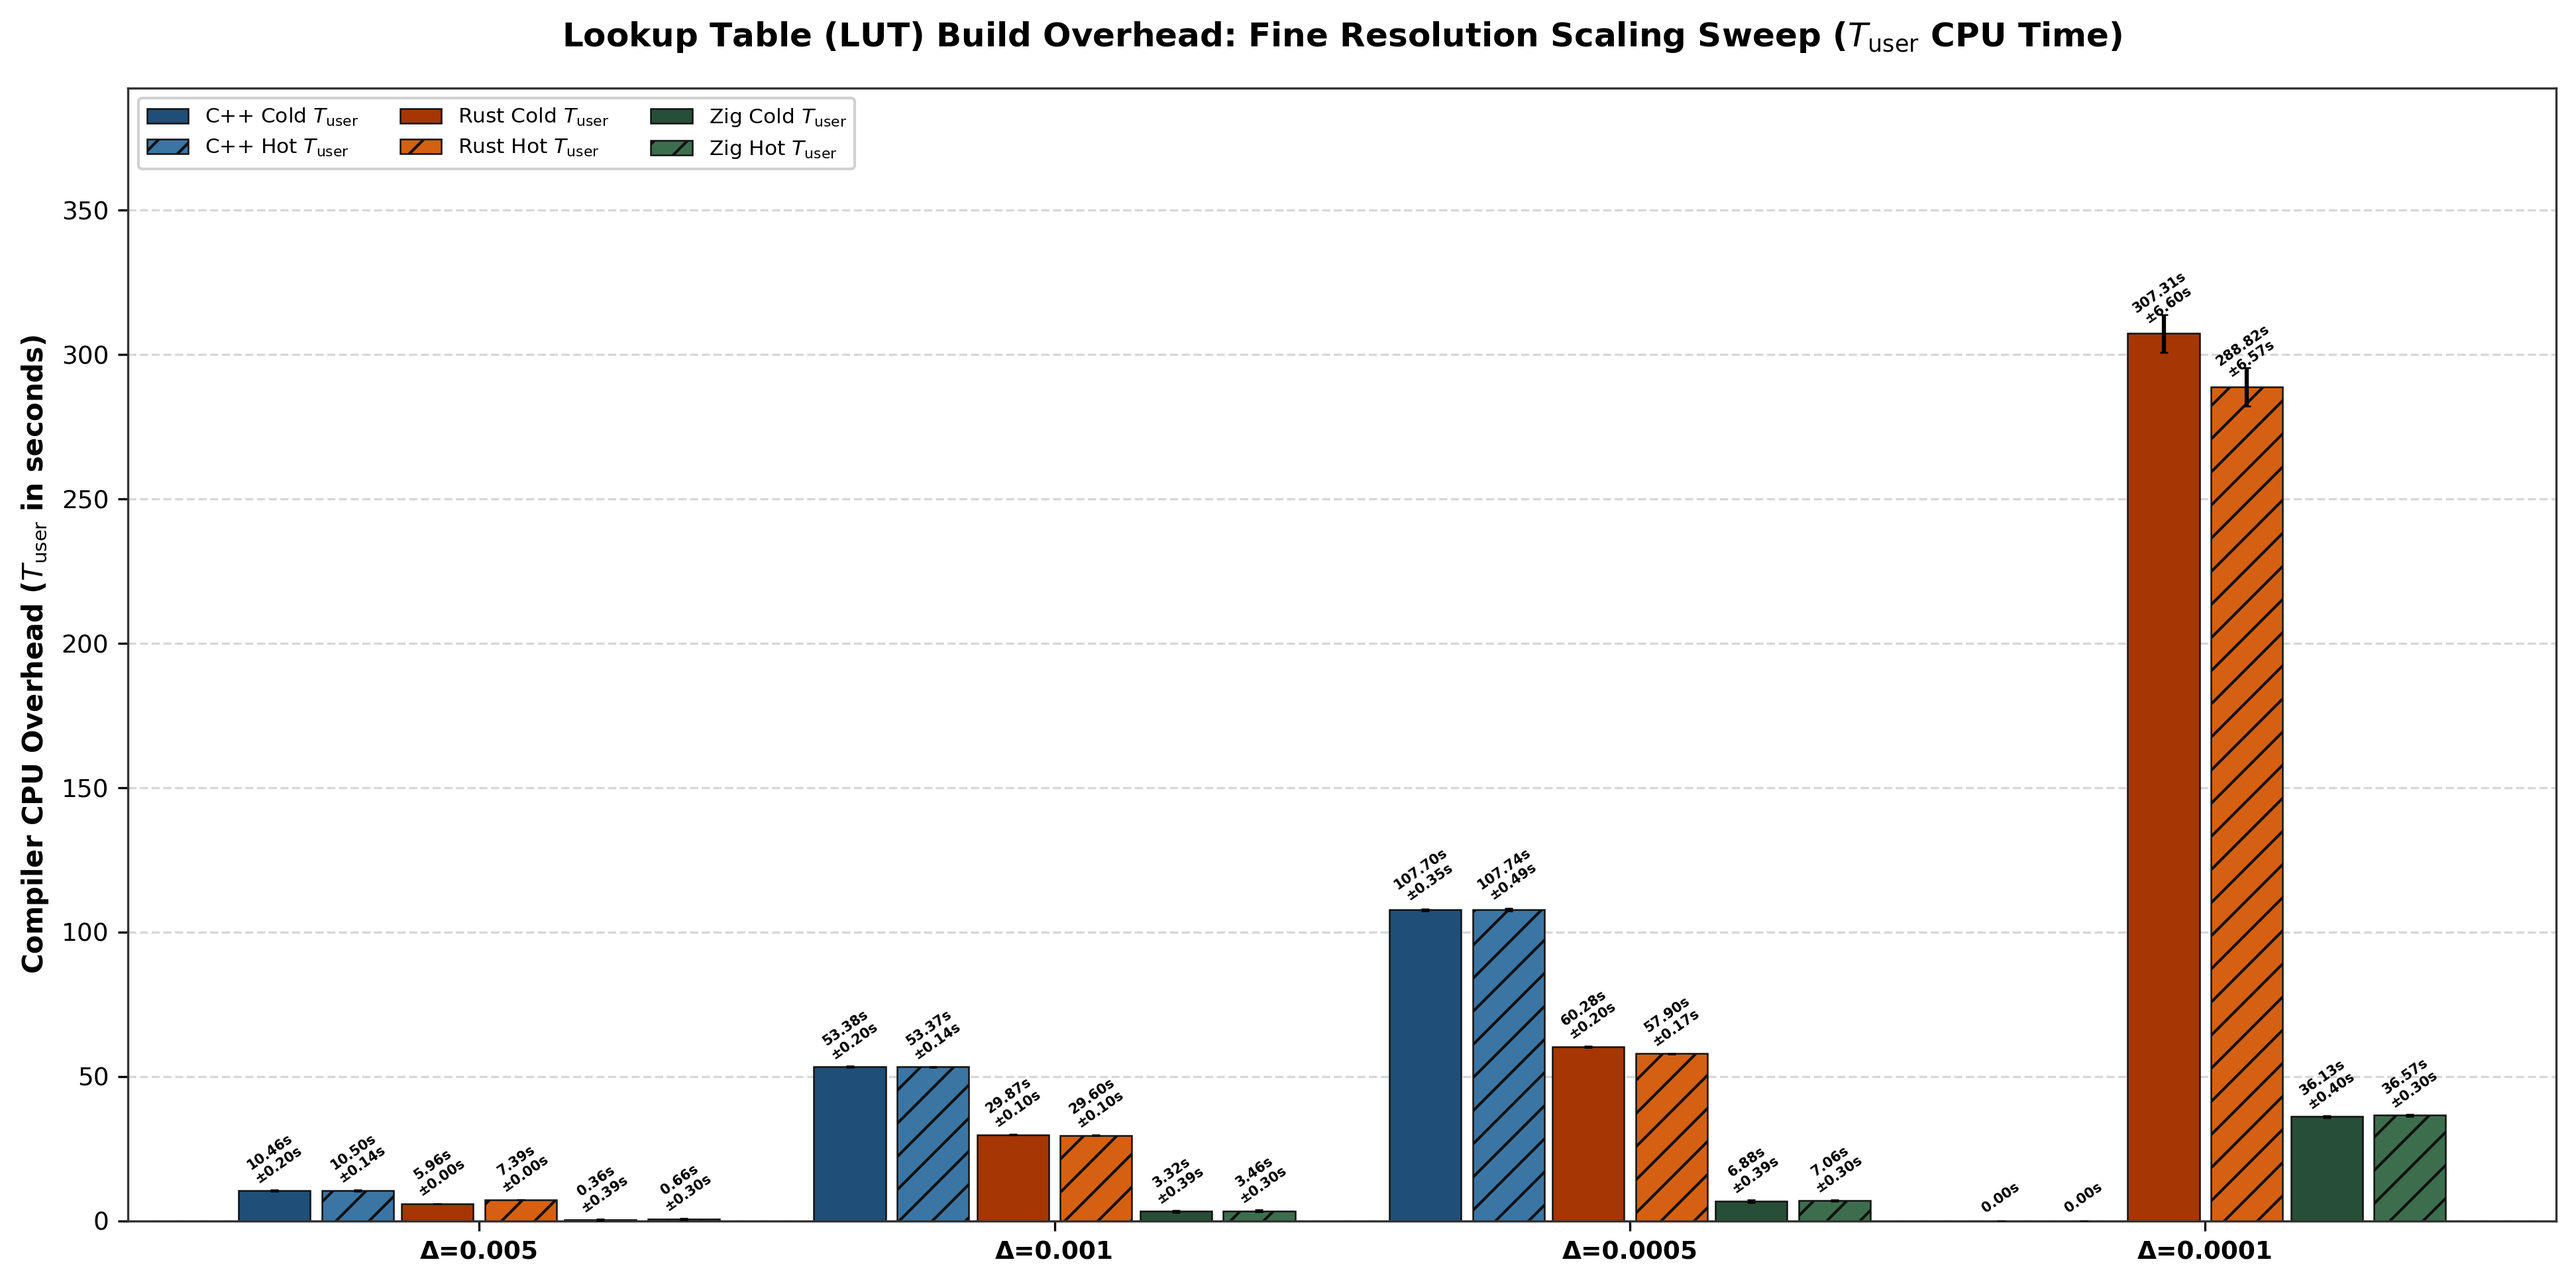
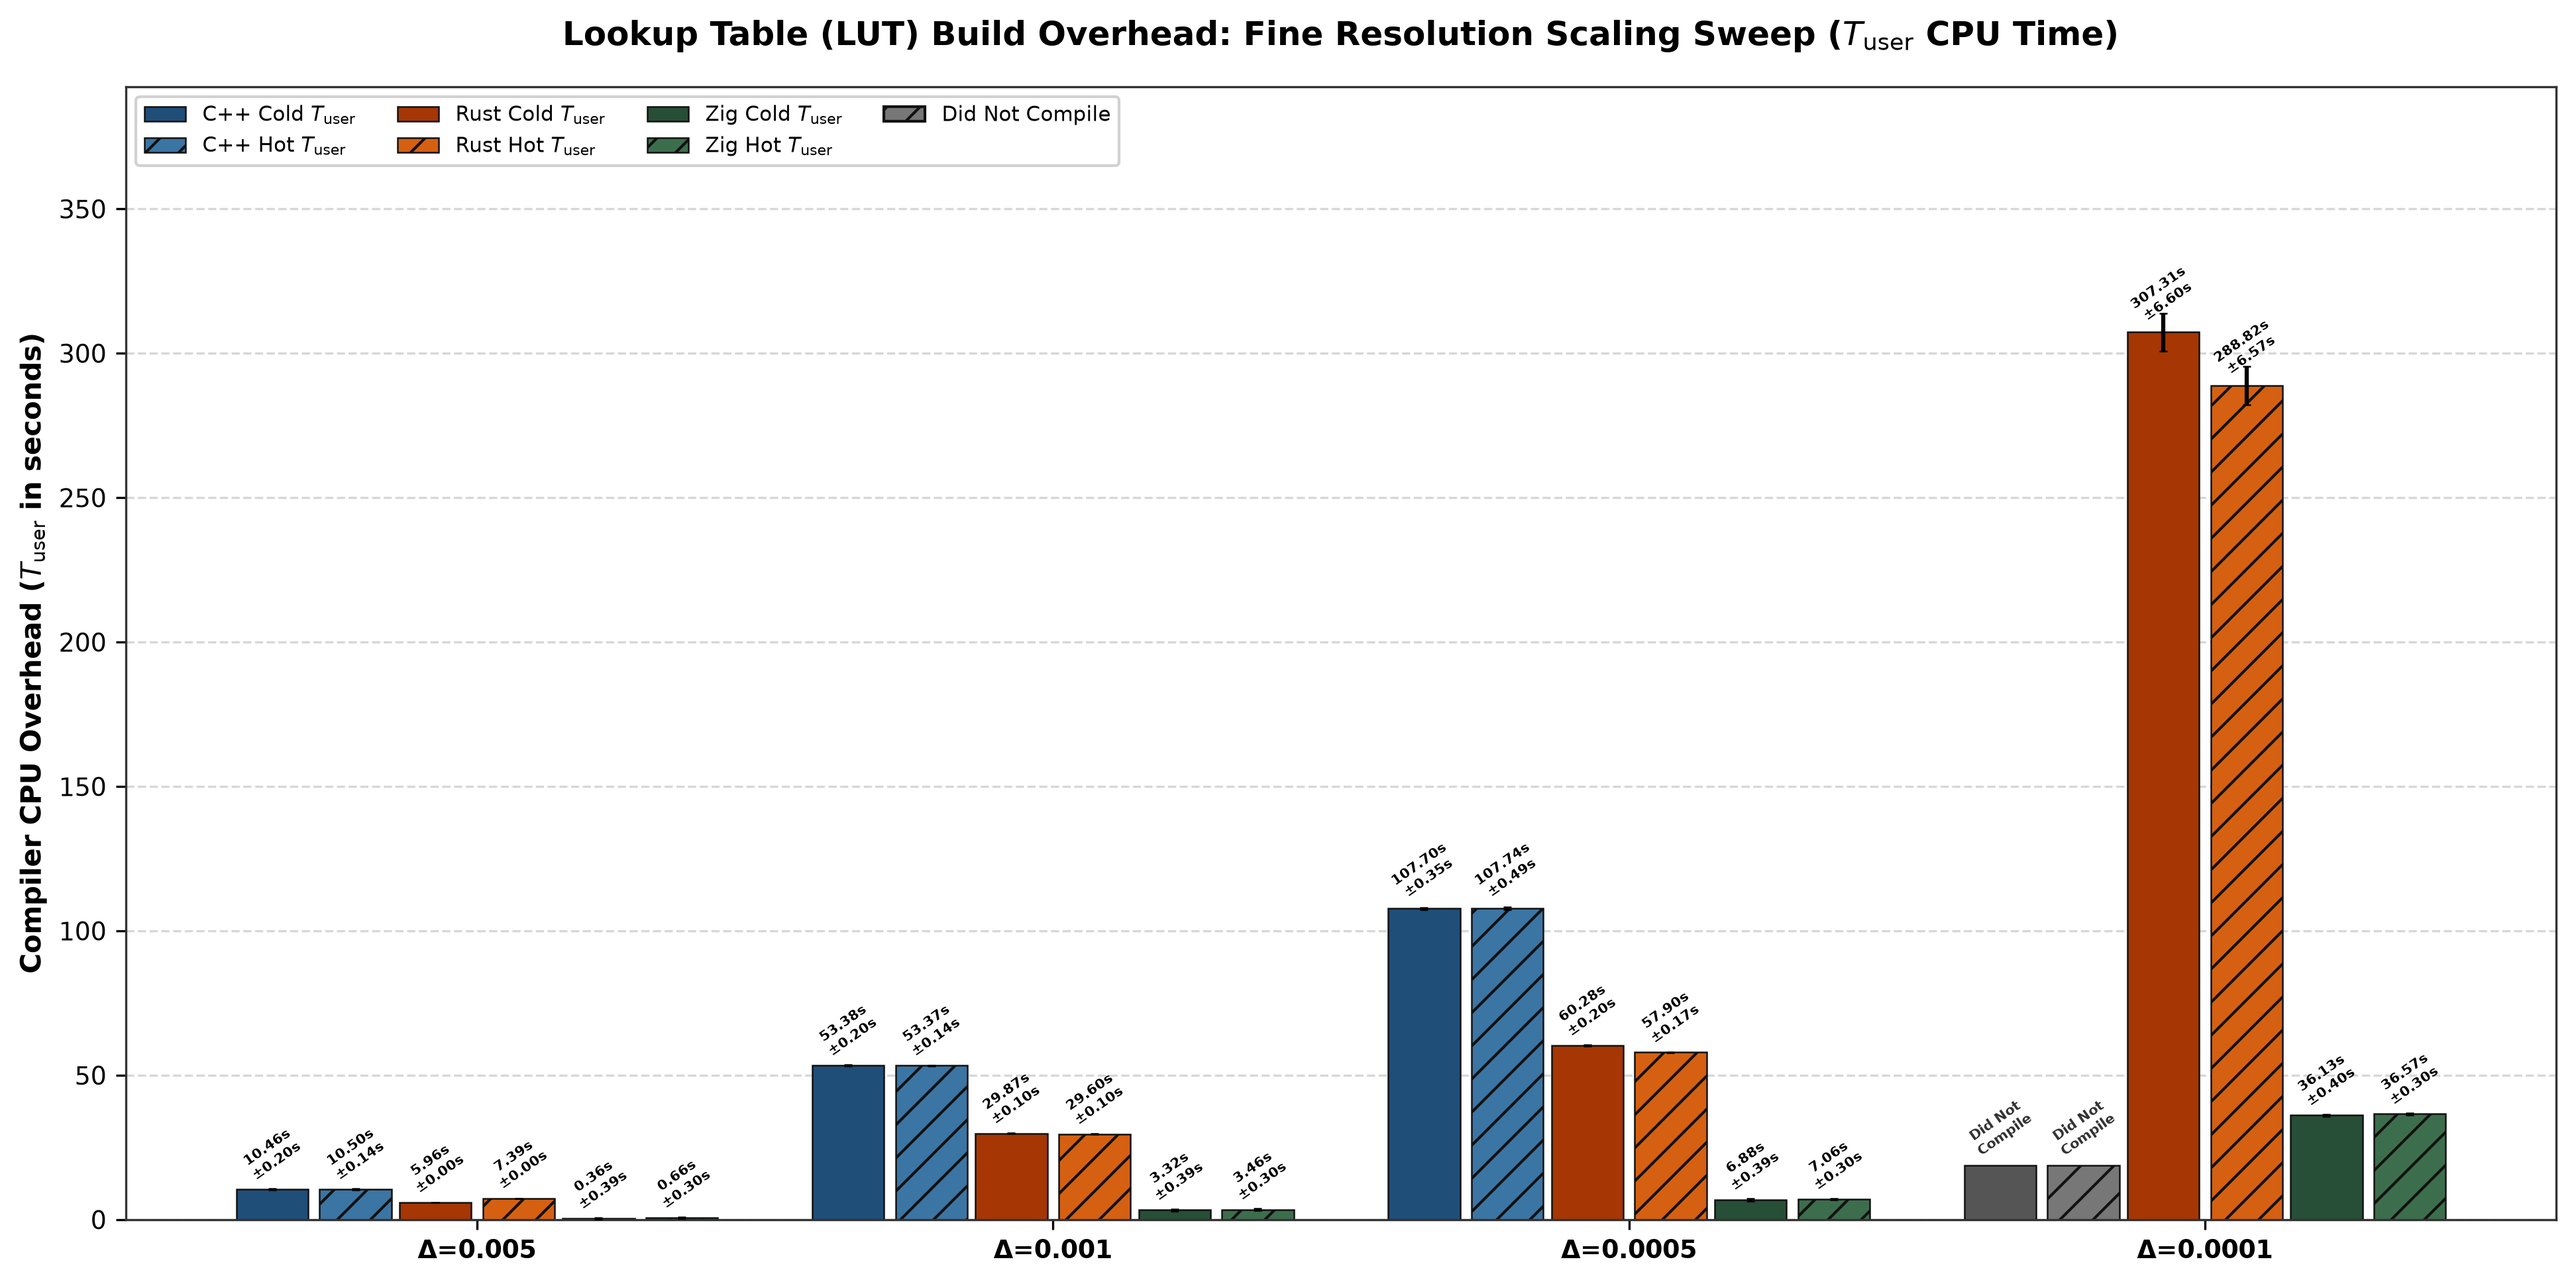
lut build

diff --git a/plot/plot_lut_build_times.py b/plot/plot_lut_build_times.py
@@ -1,6 +1,7 @@
 from pathlib import Path
 import re
 import matplotlib.pyplot as plt
+import matplotlib.patches as mpatches
 import numpy as np
 import pandas as pd
 
@@ -71,6 +72,7 @@ def plot_tuser_paired_textured_sweep(
     Plots T_user CPU overhead for Cold (solid) and Hot (hatched) builds.
     Calculates delta relative to build_offset T_user and propagates std dev:
         std_diff = sqrt(var_exp + var_base)
+    Non-compiling / missing entries (e.g. C++ at INC_0.0001) are rendered as grey bars.
     """
     df_base = df[df["label"] == "build_offset"].set_index("lang")
     df_lut_rt = df[df["label"] == "lut_runtime"].set_index("lang")
@@ -95,117 +97,159 @@ def plot_tuser_paired_textured_sweep(
 
     fig, ax = plt.subplots(figsize=(13.0 if num_categories <= 5 else 18.0, 6.5), dpi=300)
 
+    # 1. Collect data across languages and determine global_max_y for scaling
+    lang_data = []
     global_max_y = 0.0
+
+    def collect_user_data(lang, build_state):
+        base_row = df_base.loc[lang]
+        df_lang_ct = df_lut_ct[df_lut_ct["lang"] == lang]
+
+        u_vals, u_stds, compiled_flags = [], [], []
+
+        base_u_mean = float(base_row[f"{build_state}_user_mean"])
+        base_u_var = float(base_row[f"{build_state}_user_variance"])
+
+        if include_runtime_lut:
+            if lang in df_lut_rt.index and not pd.isna(df_lut_rt.loc[lang][f"{build_state}_user_mean"]):
+                rt_row = df_lut_rt.loc[lang]
+                u_mean = float(rt_row[f"{build_state}_user_mean"])
+                u_var = float(rt_row[f"{build_state}_user_variance"])
+                
+                diff_mean = max(0.0, u_mean - base_u_mean)
+                diff_std = np.sqrt(u_var + base_u_var)
+                compiled = True
+            else:
+                diff_mean, diff_std = 0.0, 0.0
+                compiled = False
+
+            u_vals.append(diff_mean)
+            u_stds.append(diff_std)
+            compiled_flags.append(compiled)
+
+        for inc in inc_list:
+            row_match = df_lang_ct[df_lang_ct["setting"] == inc]
+            if not row_match.empty and not pd.isna(row_match.iloc[0][f"{build_state}_user_mean"]):
+                ct_row = row_match.iloc[0]
+                u_mean = float(ct_row[f"{build_state}_user_mean"])
+                u_var = float(ct_row[f"{build_state}_user_variance"])
+
+                diff_mean = max(0.0, u_mean - base_u_mean)
+                diff_std = np.sqrt(u_var + base_u_var)
+                compiled = True
+            else:
+                diff_mean, diff_std = 0.0, 0.0
+                compiled = False
+
+            u_vals.append(diff_mean)
+            u_stds.append(diff_std)
+            compiled_flags.append(compiled)
+
+        return u_vals, u_stds, compiled_flags
 
     for lang_idx, lang in enumerate(LANG_ORDER):
         if lang not in df_base.index:
             continue
 
-        base_row = df_base.loc[lang]
-        df_lang_ct = df_lut_ct[df_lut_ct["lang"] == lang]
-
         lang_center_x = group_x_indices - (total_group_width / 2.0) + (lang_idx + 0.5) * lang_slot_width
         x_cold = lang_center_x - (bar_width / 2.0) - 0.01
         x_hot = lang_center_x + (bar_width / 2.0) + 0.01
 
-        # Extract T_user mean difference and propagated error
-        def collect_user_data(build_state):
-            u_vals, u_stds = [], []
+        c_u, c_std, c_comp = collect_user_data(lang, "cold")
+        h_u, h_std, h_comp = collect_user_data(lang, "hot")
 
-            base_u_mean = float(base_row[f"{build_state}_user_mean"])
-            base_u_var = float(base_row[f"{build_state}_user_variance"])
-
-            if include_runtime_lut:
-                if lang in df_lut_rt.index:
-                    rt_row = df_lut_rt.loc[lang]
-                    u_mean = float(rt_row[f"{build_state}_user_mean"])
-                    u_var = float(rt_row[f"{build_state}_user_variance"])
-                    
-                    diff_mean = max(0.0, u_mean - base_u_mean)
-                    diff_std = np.sqrt(u_var + base_u_var)
-                else:
-                    diff_mean, diff_std = 0.0, 0.0
-
-                u_vals.append(diff_mean)
-                u_stds.append(diff_std)
-
-            for inc in inc_list:
-                row_match = df_lang_ct[df_lang_ct["setting"] == inc]
-                if not row_match.empty:
-                    ct_row = row_match.iloc[0]
-                    u_mean = float(ct_row[f"{build_state}_user_mean"])
-                    u_var = float(ct_row[f"{build_state}_user_variance"])
-
-                    diff_mean = max(0.0, u_mean - base_u_mean)
-                    diff_std = np.sqrt(u_var + base_u_var)
-                else:
-                    diff_mean, diff_std = 0.0, 0.0
-
-                u_vals.append(diff_mean)
-                u_stds.append(diff_std)
-
-            return u_vals, u_stds
-
-        c_u, c_std = collect_user_data("cold")
-        h_u, h_std = collect_user_data("hot")
-
-        colors = COLOR_MAPS[lang]
-
-        # 1. Cold T_user Bars (Solid)
-        ax.bar(
-            x_cold,
-            c_u,
-            width=bar_width,
-            color=colors["cold_user"],
-            edgecolor="#111111",
-            linewidth=0.6,
-            zorder=2,
-            label=f"{LANG_LABELS[lang]} Cold $T_\\mathrm{{user}}$",
-        )
-
-        # 2. Hot T_user Bars (Hatched)
-        ax.bar(
-            x_hot,
-            h_u,
-            width=bar_width,
-            color=colors["hot_user"],
-            edgecolor="#111111",
-            hatch="//",
-            linewidth=0.6,
-            zorder=2,
-            label=f"{LANG_LABELS[lang]} Hot $T_\\mathrm{{user}}$",
-        )
-
-        # 3. Error Bars and Text Annotations for T_user
-        for x_pos_arr, u_vals, u_stds in [(x_cold, c_u, c_std), (x_hot, h_u, h_std)]:
-            for x_pos, val, std in zip(x_pos_arr, u_vals, u_stds):
-                ax.errorbar(
-                    x_pos,
-                    val,
-                    yerr=std,
-                    fmt="none",
-                    ecolor="black",
-                    capsize=1.5,
-                    capthick=0.6,
-                    zorder=5,
-                )
-
-                top_pt = val + std
+        # Track max y-value for scale
+        for u, std, comp in zip(c_u + h_u, c_std + h_std, c_comp + h_comp):
+            if comp:
+                top_pt = u + std
                 if top_pt > global_max_y:
                     global_max_y = top_pt
 
-                val_str = f"{val:.2f}s\n±{std:.2f}s" if val >= 0.01 else "0.00s"
+        lang_data.append({
+            "lang": lang,
+            "x_cold": x_cold,
+            "x_hot": x_hot,
+            "c_u": c_u, "c_std": c_std, "c_comp": c_comp,
+            "h_u": h_u, "h_std": h_std, "h_comp": h_comp,
+        })
 
+    placeholder_height = max(global_max_y * 0.06, 0.5)
+    has_uncompiled = False
+
+    # 2. Render Bars and Annotations
+    for data_item in lang_data:
+        lang = data_item["lang"]
+        x_cold, x_hot = data_item["x_cold"], data_item["x_hot"]
+        c_u, c_std, c_comp = data_item["c_u"], data_item["c_std"], data_item["c_comp"]
+        h_u, h_std, h_comp = data_item["h_u"], data_item["h_std"], data_item["h_comp"]
+
+        colors = COLOR_MAPS[lang]
+
+        for idx in range(num_categories):
+            # --- 1. Cold T_user Bar ---
+            x_c, val_c, std_c, comp_c = x_cold[idx], c_u[idx], c_std[idx], c_comp[idx]
+
+            if comp_c:
+                ax.bar(
+                    x_c, val_c, width=bar_width,
+                    color=colors["cold_user"], edgecolor="#111111", linewidth=0.6, zorder=2,
+                    label=f"{LANG_LABELS[lang]} Cold $T_\\mathrm{{user}}$",
+                )
+                ax.errorbar(
+                    x_c, val_c, yerr=std_c, fmt="none", ecolor="black",
+                    capsize=1.5, capthick=0.6, zorder=5,
+                )
+                val_str_c = f"{val_c:.2f}s\n±{std_c:.2f}s" if val_c >= 0.01 else "0.00s"
                 ax.annotate(
-                    val_str,
-                    xy=(x_pos, val),
-                    xytext=(0, 2),
-                    textcoords="offset points",
-                    ha="center",
-                    va="bottom",
-                    fontsize=5.0 if num_categories <= 5 else 4.6,
-                    fontweight="bold",
+                    val_str_c, xy=(x_c, val_c), xytext=(0, 2),
+                    textcoords="offset points", ha="center", va="bottom",
+                    fontsize=5.0 if num_categories <= 5 else 4.6, fontweight="bold",
                     rotation=35 if num_categories <= 5 else 45,
+                )
+            else:
+                has_uncompiled = True
+                ax.bar(
+                    x_c, placeholder_height, width=bar_width,
+                    color="#555555", edgecolor="#111111", linewidth=0.6, zorder=2,
+                )
+                ax.annotate(
+                    "Did Not\nCompile", xy=(x_c, placeholder_height), xytext=(0, 2),
+                    textcoords="offset points", ha="center", va="bottom",
+                    fontsize=5.0 if num_categories <= 5 else 4.6, fontweight="bold",
+                    color="#333333", rotation=35 if num_categories <= 5 else 45,
+                )
+
+            # --- 2. Hot T_user Bar ---
+            x_h, val_h, std_h, comp_h = x_hot[idx], h_u[idx], h_std[idx], h_comp[idx]
+
+            if comp_h:
+                ax.bar(
+                    x_h, val_h, width=bar_width,
+                    color=colors["hot_user"], edgecolor="#111111", hatch="//", linewidth=0.6, zorder=2,
+                    label=f"{LANG_LABELS[lang]} Hot $T_\\mathrm{{user}}$",
+                )
+                ax.errorbar(
+                    x_h, val_h, yerr=std_h, fmt="none", ecolor="black",
+                    capsize=1.5, capthick=0.6, zorder=5,
+                )
+                val_str_h = f"{val_h:.2f}s\n±{std_h:.2f}s" if val_h >= 0.01 else "0.00s"
+                ax.annotate(
+                    val_str_h, xy=(x_h, val_h), xytext=(0, 2),
+                    textcoords="offset points", ha="center", va="bottom",
+                    fontsize=5.0 if num_categories <= 5 else 4.6, fontweight="bold",
+                    rotation=35 if num_categories <= 5 else 45,
+                )
+            else:
+                has_uncompiled = True
+                ax.bar(
+                    x_h, placeholder_height, width=bar_width,
+                    color="#777777", edgecolor="#111111", hatch="//", linewidth=0.6, zorder=2,
+                )
+                ax.annotate(
+                    "Did Not\nCompile", xy=(x_h, placeholder_height), xytext=(0, 2),
+                    textcoords="offset points", ha="center", va="bottom",
+                    fontsize=5.0 if num_categories <= 5 else 4.6, fontweight="bold",
+                    color="#333333", rotation=35 if num_categories <= 5 else 45,
                 )
 
     ax.set_xticks(group_x_indices)
@@ -218,10 +262,22 @@ def plot_tuser_paired_textured_sweep(
     # Set bottom Y-limit strictly at 0 to guarantee clean baseline
     ax.set_ylim(0.0, max(global_max_y * 1.25, 2.0))
 
-    # Deduplicated legend
+    # Deduplicated legend + optional "Did Not Compile" patch
     handles, labels = ax.get_legend_handles_labels()
     by_label = dict(zip(labels, handles))
-    ax.legend(by_label.values(), by_label.keys(), loc="upper left", ncol=3, framealpha=0.9, fontsize=7.5)
+
+    if has_uncompiled:
+        grey_patch = mpatches.Patch(facecolor="#777777", edgecolor="#111111", hatch="//", label="Did Not Compile")
+        by_label["Did Not Compile"] = grey_patch
+
+    ax.legend(
+        by_label.values(),
+        by_label.keys(),
+        loc="upper left",
+        ncol=4 if has_uncompiled else 3,
+        framealpha=0.9,
+        fontsize=7.5,
+    )
 
     plt.tight_layout()
 
